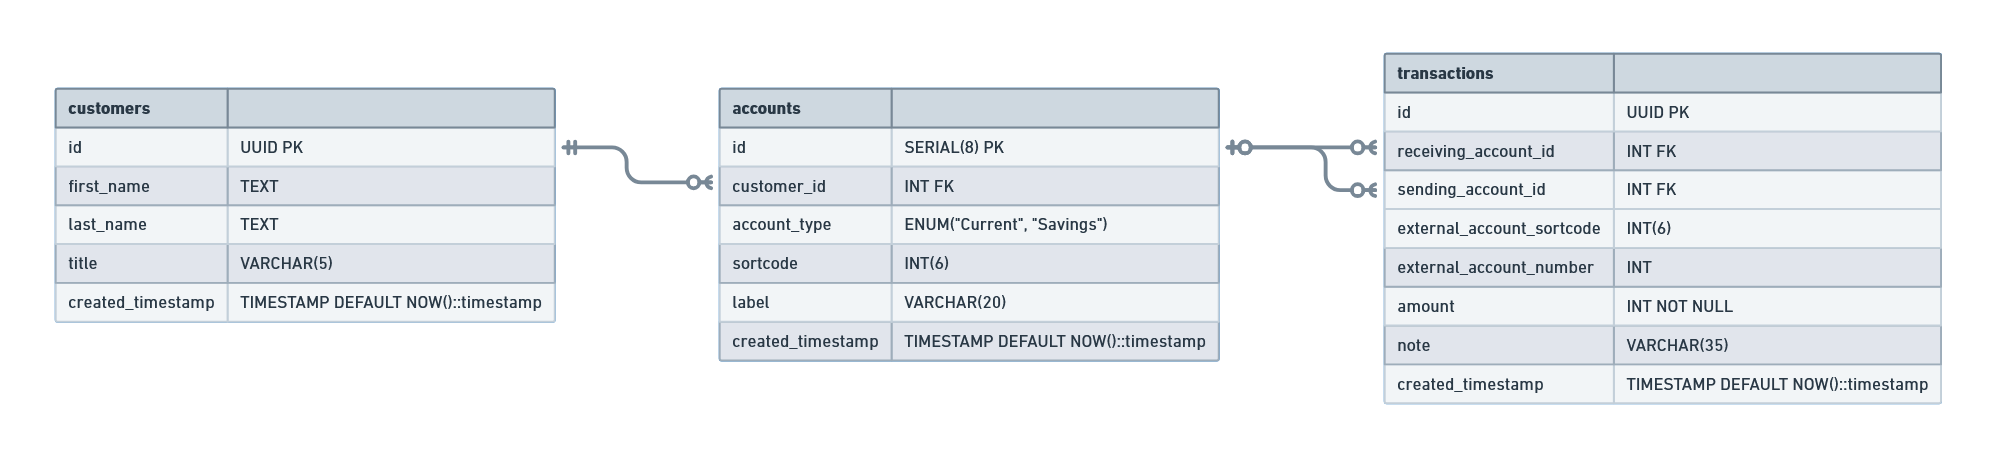
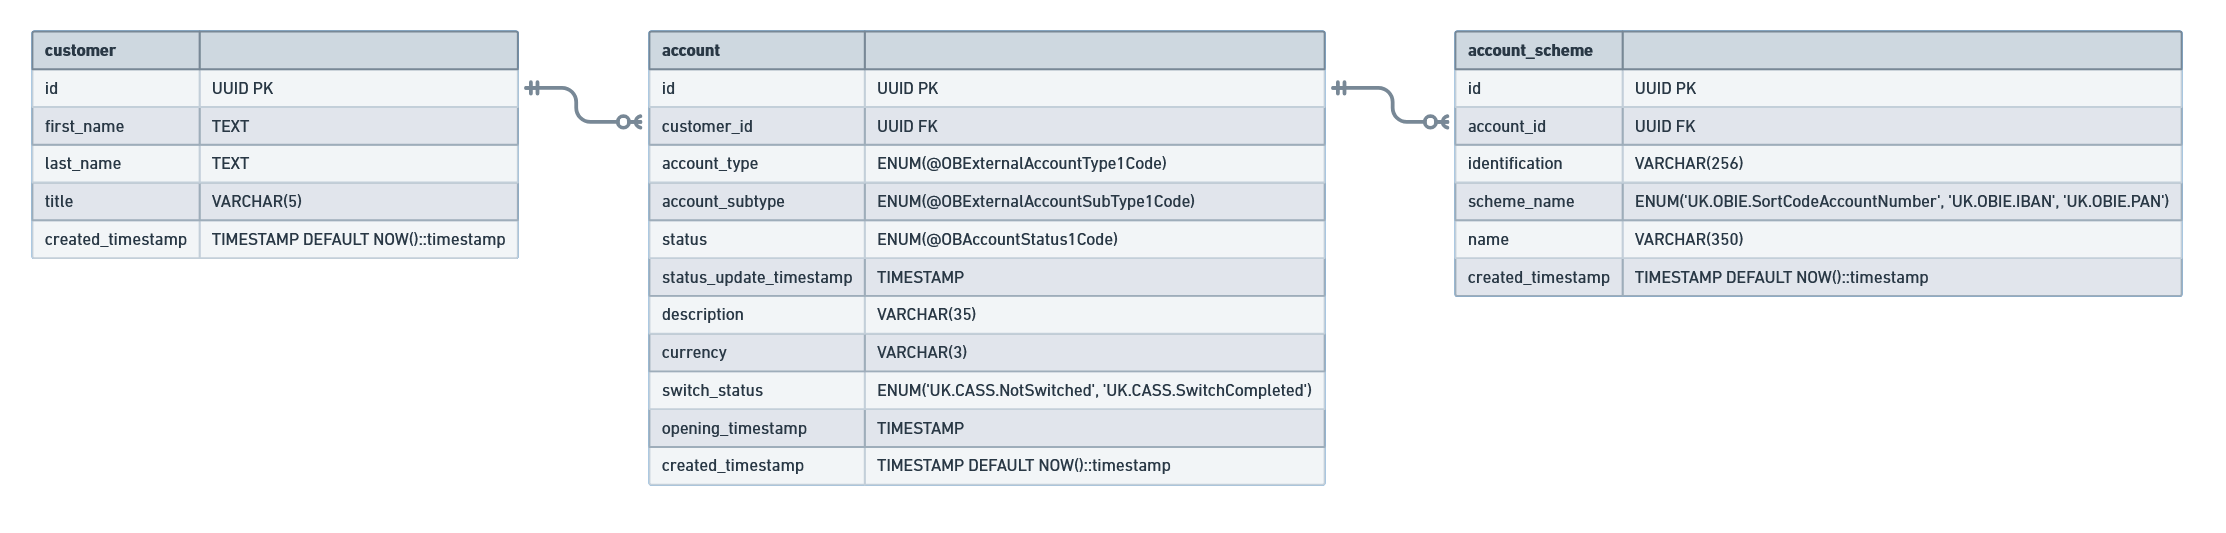
update erd to match open banking spec

diff --git a/README.md b/README.md
@@ -14,4 +14,6 @@ I don't have a balance on the account entity, I'm presuming that's a calculated 
 
 ## Notes
 
+Open Banking Spec: https://openbankinguk.github.io/read-write-api-site3/v3.1.10/resources-and-data-models/aisp/Accounts.html
+
 Make a new migration: `migrate create -ext sql -dir db/migrations -seq init_schema`
